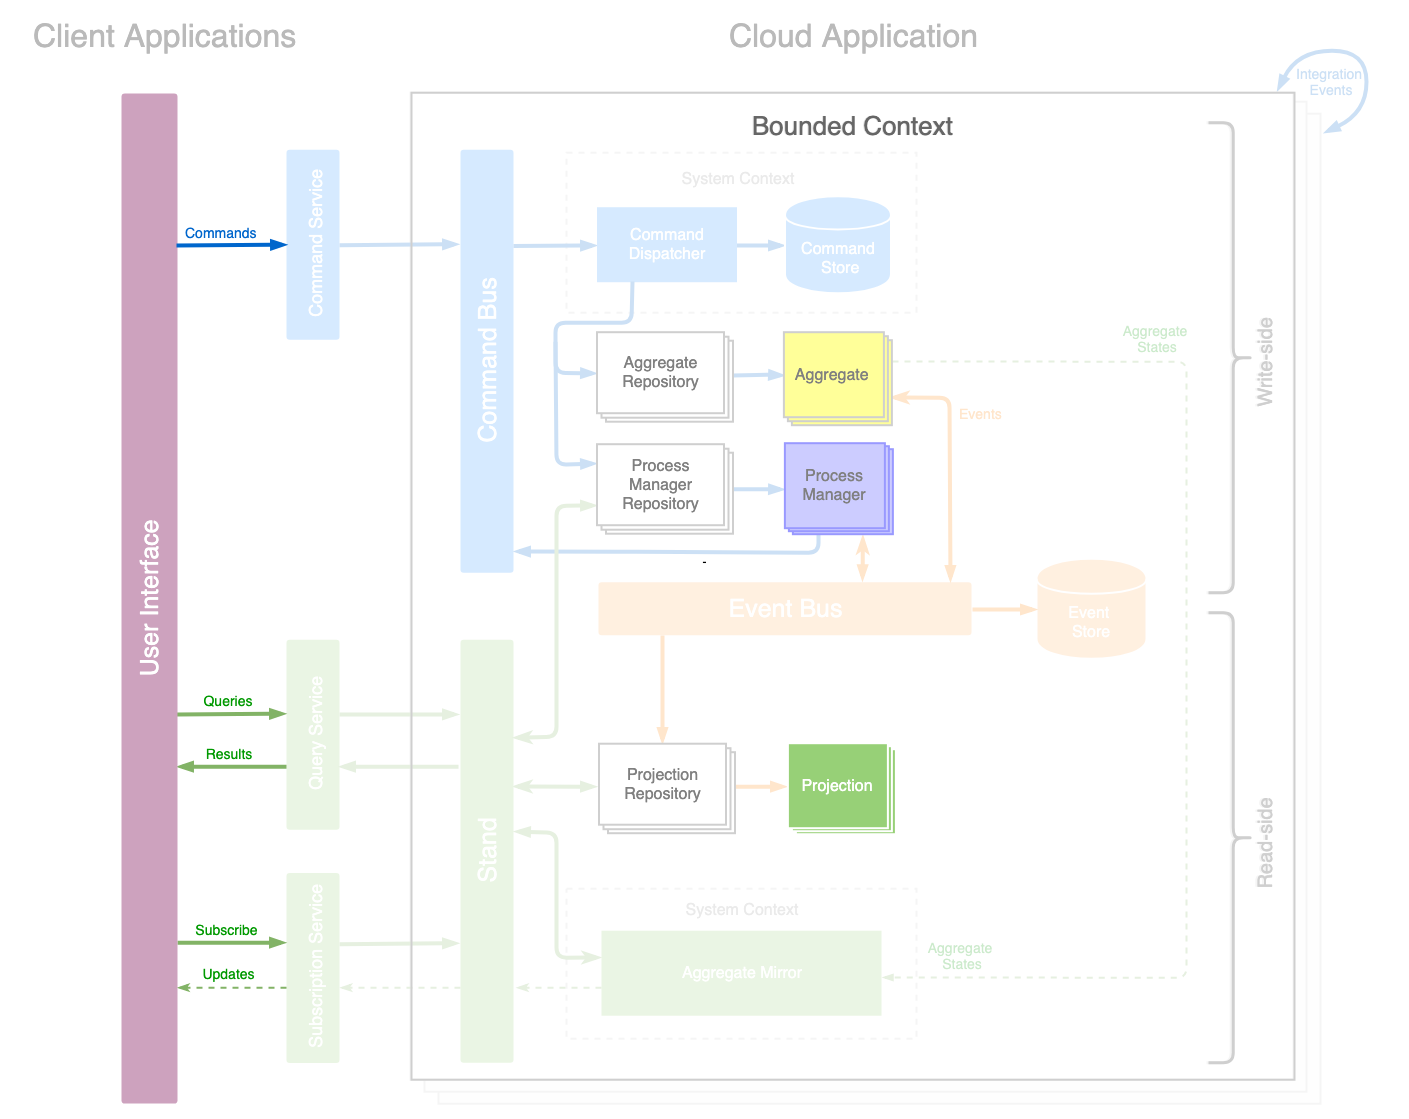
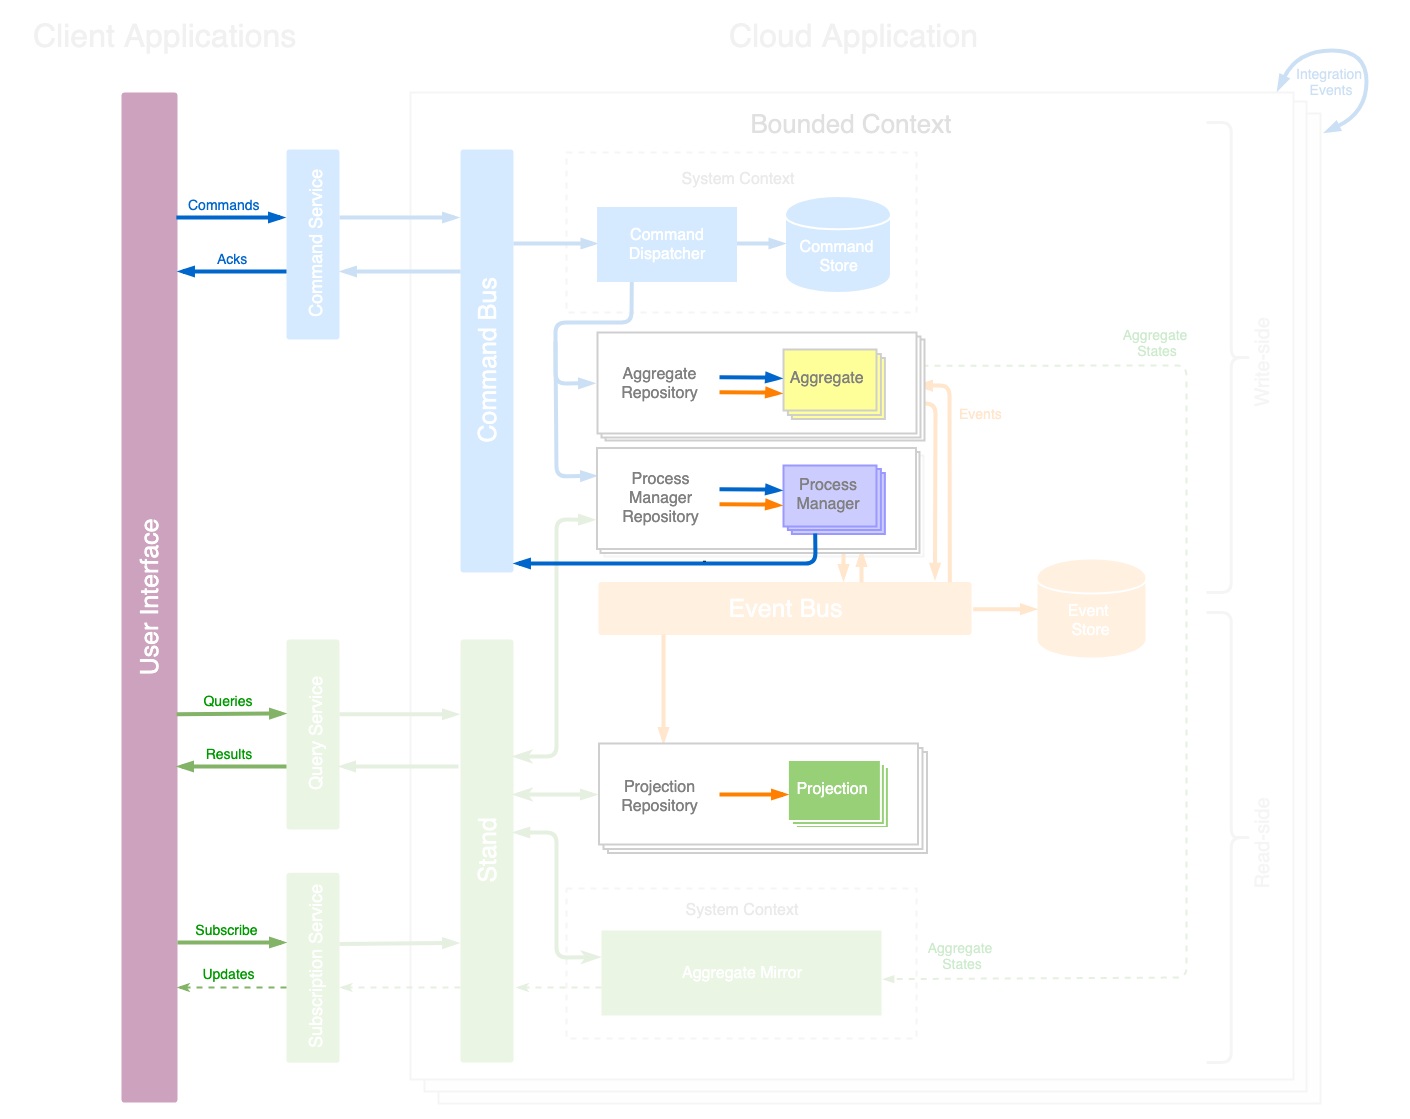
1.) Updated spine diagram pictures. 2.) Changed the title in pages navigation. 3.) Renamed "Concepts" page to "Architecture Overview". 4.) Added Architecure Overview page to Concepts navigation bar.

diff --git a/_includes/doc-side-concepts-nav.html b/_includes/doc-side-concepts-nav.html
@@ -1,6 +1,7 @@
 <ul class="doc-side-nav doc-side-nav-concepts">
     {% assign current = page.url | downcase | split: '/' %}
     <li><h5 class="doc-side-nav-title">Concepts</h5></li>
+    <li><a href="{{ site.baseurl }}/docs/concepts/index.html" {% if current[3] == 'index.html' %}class='current'{% endif %}>Architecture Overview</a></li>
     <li>
         <ul id="doc-side-nav-inside">
             <li><h6 class="doc-side-nav-sub-title">Messaging</h6></li>

diff --git a/docs/concepts/index.md b/docs/concepts/index.md
@@ -1,23 +1,21 @@
 ---
-title: Basic Concepts Overview 
-headline: Spine Basic Concepts
+title: Concepts 
+headline: Concepts 
 bodyclass: docs
 layout: docs
 type: markdown
 sidenav: doc-side-concepts-nav.html
 ---
-<h2 class="top">Spine Basic Concepts</h2>
+<h2 class="top">Architecture Overview</h2>
 <div id="toc" class="toc hide-block"></div>
-This section introduces key concepts of Spine framework and its parts, helps you get a deeper understanding of how it works and provides some usage notes when creating Spine-based cloud application. 
+This section introduces key concepts of Spine framework and its parts, helps you get a deeper understanding of how it works and provides some usage notes. 
 <p class="note">We assume that you are familiar with the basics of Domain-Driven Design.</p> 
-Here is an overall view of Spine Event Engine architecture.
+
+This is an overall view of Spine architecture:
 <img src="{{ site.baseurl }}/img/concepts/spine-architecture-diagram-1.0.0.png" alt="Spine Event Engine Architecture">
-These are the parts of Spine architecture you are going to interact with when working with Spine. 
+
+These are the parts of Spine architecture you are going to interact with when developing your applications: 
 <img src="{{ site.baseurl }}/img/concepts/spine-architecture-diagram-1.0.0-faded.png" alt="Spine Event Engine Architecture">
- 
- 
-
-
 
 
 

diff --git a/docs/concepts/integration-event.md b/docs/concepts/integration-event.md
@@ -1,6 +1,6 @@
 ---
 title: Integration Event
-headline: Integration Event
+headline: Concepts
 bodyclass: docs
 layout: docs
 sidenav: doc-side-concepts-nav.html

diff --git a/docs/concepts/aggregate-mirror.md b/docs/concepts/aggregate-mirror.md
@@ -1,6 +1,6 @@
 ---
 title: Aggregate Mirror 
-headline: Aggregate Mirror
+headline: Concepts
 bodyclass: docs
 layout: docs
 sidenav: doc-side-concepts-nav.html

diff --git a/docs/concepts/event-subsriber.md b/docs/concepts/event-subsriber.md
@@ -1,6 +1,6 @@
 ---
 title: Event Subscriber
-headline: Event Subscriber
+headline: Concepts
 bodyclass: docs
 layout: docs
 sidenav: doc-side-concepts-nav.html

diff --git a/docs/concepts/bounded-context.md b/docs/concepts/bounded-context.md
@@ -1,6 +1,6 @@
 ---
 title: Bounded Context
-headline: Bounded Context
+headline: Concepts
 bodyclass: docs
 layout: docs
 sidenav: doc-side-concepts-nav.html

diff --git a/docs/concepts/command-handler.md b/docs/concepts/command-handler.md
@@ -1,6 +1,6 @@
 ---
 title: Command Handler
-headline: Command Handler
+headline: Concepts
 bodyclass: docs
 layout: docs
 sidenav: doc-side-concepts-nav.html

diff --git a/docs/concepts/command-service.md b/docs/concepts/command-service.md
@@ -1,6 +1,6 @@
 ---
 title: Command Service
-headline: Command Service
+headline: Concepts
 bodyclass: docs
 layout: docs
 sidenav: doc-side-concepts-nav.html

diff --git a/docs/concepts/process-manager.md b/docs/concepts/process-manager.md
@@ -1,6 +1,6 @@
 ---
 title: Process Manager
-headline: Process Manager
+headline: Concepts
 bodyclass: docs
 layout: docs
 sidenav: doc-side-concepts-nav.html

diff --git a/docs/concepts/command-store.md b/docs/concepts/command-store.md
@@ -1,6 +1,6 @@
 ---
 title: Command Store
-headline: Command Store
+headline: Concepts
 bodyclass: docs
 layout: docs
 sidenav: doc-side-concepts-nav.html

diff --git a/docs/concepts/event-reactor.md b/docs/concepts/event-reactor.md
@@ -1,6 +1,6 @@
 ---
 title: Event Reactor
-headline: Event Reactor
+headline: Concepts
 bodyclass: docs
 layout: docs
 sidenav: doc-side-concepts-nav.html

diff --git a/docs/concepts/query-service.md b/docs/concepts/query-service.md
@@ -1,6 +1,6 @@
 ---
 title: Query Service
-headline: Query Service
+headline: Concepts
 bodyclass: docs
 layout: docs
 sidenav: doc-side-concepts-nav.html
